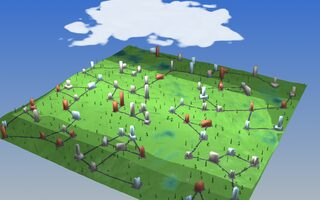
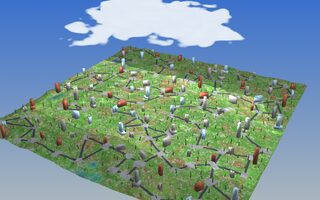
terrain_lab: bake roads/plazas into the terrain texture; more dirt + heightfield variance
Roads and building plazas were draped quads that z-fought and shimmered; they are now
BAKED INTO the terrain's texture. The terrain mesh carries UVs and a per-regeneration
RGB texture holds the final surface colour: per-cell material, dirt/dry-grass patches
breaking up the grass (value-noise, material mode only), a concrete plaza hugging each
building footprint, and an asphalt street network connecting the plazas (nearest-2,
skipping submerged spans). QA colour modes (risk/occupancy/height) show the raw raster.
Heightfield variance raised (shorter base wavelength, 8 octaves, higher gain, stronger
warp, amp 44) so the generator classifies more gravel/scree/rock (dirt) on the steeper
slopes instead of an all-grass plain. Colour-mode switch now repaints the texture.

diff --git a/src/cvcGL/examples/terrain_lab.cpp b/src/cvcGL/examples/terrain_lab.cpp
@@ -125,7 +125,7 @@ struct GenParams {
   int rocks = 90;
   int buildings = 110;
   int tree_gen = 5;
-  double amp_m = 36.0;
+  double amp_m = 44.0;
   // Water SURFACE height. The heightfield floor sits at 0, so terrain rises in
   // [0, amp]; anything below this line floods — valleys become streams/ponds and
   // the low rim becomes coast. Default ~a third of the relief, so water reads.
@@ -148,10 +148,15 @@ world::world_params toWorldParams(const GenParams &gp) {
   wp.hf.seed = gp.seed;
   wp.hf.amp_m = gp.amp_m;
   wp.hf.sea_level_m = 0.0; // terrain floor at 0; water floods above it (see water_level_m)
-  wp.hf.base_wavelength_m = std::max(60.0, gHalf * 0.38); // rolling hills with carved valleys
-  wp.hf.octaves = 7;
-  wp.hf.warp_m = 16.0;
-  wp.hf.warp_wavelength_m = gHalf * 0.7;
+  // More variance: a shorter base wavelength + more octaves + higher gain give
+  // steeper, more broken relief, so the generator classifies more gravel / scree /
+  // bare rock (dirt) on the slopes instead of an all-grass plain.
+  wp.hf.base_wavelength_m = std::max(50.0, gHalf * 0.30);
+  wp.hf.octaves = 8;
+  wp.hf.gain = 0.55;
+  wp.hf.lacunarity = 2.1;
+  wp.hf.warp_m = 22.0;
+  wp.hf.warp_wavelength_m = gHalf * 0.6;
   // The "island" preset shapes the relief (a central dome dropping below the water
   // line at the rim); every preset's object mix lives in the count sliders (see
   // presetFill), so counts here always come straight from the panel.
@@ -245,23 +250,19 @@ cvc::geometry::color_t cellColor(const world::raster_out &ro, const world::surfa
 
 // Build the terrain mesh straight from the raster: a vertex per cell, coloured by
 // the current colour mode, real heights. Row 0 == min_y (grid_spec convention).
-cvc::geometry buildTerrain(cvc::app &app, const world::raster_out &ro, const world::grid_spec &g,
-                           const world::surface_registry &reg, int mode) {
-  float hmin = 1e30f, hmax = -1e30f;
-  for (float h : ro.height) {
-    hmin = std::min(hmin, h);
-    hmax = std::max(hmax, h);
-  }
+// The terrain mesh: real heights + UVs (world -> [0,1]) so the surface colour comes
+// from a baked texture (materials + dirt + roads + plazas), not per-vertex colour.
+cvc::geometry buildTerrain(cvc::app &app, const world::raster_out &ro, const world::grid_spec &g) {
   cvc::geometry geo(app);
   auto &pts = geo.points();
-  auto &cols = geo.colors();
+  auto &uvs = geo.uvs();
   pts.reserve(ro.klass.size());
-  cols.reserve(ro.klass.size());
+  uvs.reserve(ro.klass.size());
   for (int r = 0; r < g.rows; ++r)
     for (int c = 0; c < g.cols; ++c) {
       std::size_t i = std::size_t(r) * g.cols + c;
       pts.push_back({g.world_x(c), g.world_y(r), double(ro.height[i])});
-      cols.push_back(cellColor(ro, reg, i, mode, hmin, hmax));
+      uvs.push_back({double(c) / (g.cols - 1), double(r) / (g.rows - 1)});
     }
   auto &tris = geo.tris();
   tris.reserve(std::size_t(g.rows - 1) * (g.cols - 1) * 2);
@@ -575,39 +576,22 @@ void buildBuildings(cvc::app &app, const world::world_model &wm, const world::su
   }
 }
 
-// ── pavement: a concrete plaza that WRAPS AROUND each building — a square apron
-// centred on the building, extending a margin beyond its footprint, draped over
-// the terrain so it follows the ground the building sits on ──────────────────
-cvc::geometry buildPavement(cvc::app &app, const std::vector<Apron> &aprons,
-                            const world::heightfield &hf, double waterLevel) {
-  cvc::geometry g(app);
-  const cvc::geometry::color_t pave = {0.30, 0.31, 0.33}; // dark concrete plaza
-  const cvc::geometry::color_t road = {0.24, 0.24, 0.27}; // darker asphalt street
-  const int G = 5;                                        // draped grid per plaza
-  // Plazas: a paved rectangle hugging each building's footprint, at its yaw.
-  for (const Apron &a : aprons) {
-    double c = std::cos(a.yaw), s = std::sin(a.yaw);
-    idx_t base = idx_t(g.points().size());
-    for (int iy = 0; iy <= G; ++iy)
-      for (int ix = 0; ix <= G; ++ix) {
-        double lx = -a.hx + 2.0 * a.hx * ix / G, ly = -a.hy + 2.0 * a.hy * iy / G;
-        double x = a.x + lx * c - ly * s, y = a.y + lx * s + ly * c; // rotate to yaw
-        double h = hf.sample(x, y) + 0.12;
-        g.points().push_back({x, y, h});
-        g.colors().push_back(pave);
-      }
-    for (int iy = 0; iy < G; ++iy)
-      for (int ix = 0; ix < G; ++ix) {
-        idx_t v = base + idx_t(iy) * (G + 1) + ix;
-        idx_t vr = v + 1, vd = v + (G + 1), vrd = vd + 1;
-        g.tris().push_back({v, vr, vd});
-        g.tris().push_back({vr, vrd, vd});
-      }
-  }
-  // Streets: connect each plaza to its two nearest neighbours (a simple network),
-  // draped over the terrain, skipping any span whose midpoint would dip underwater.
+// ── streets + terrain texture: roads and plazas are BAKED INTO the terrain's
+// texture (not draped quads, which z-fight and shimmer). The mesh carries UVs; the
+// texture holds the final surface colour — per-cell material (+ dirt/grass variance
+// in material mode), a paved plaza hugging each building footprint, and an asphalt
+// street network connecting the plazas. ─────────────────────────────────────────
+struct Street {
+  double x0, y0, x1, y1;
+};
+
+// Connect each building plaza to its two nearest neighbours, skipping any span
+// whose midpoint terrain would sit underwater.
+std::vector<Street> computeStreets(const std::vector<Apron> &aprons, const world::heightfield &hf,
+                                   double waterLevel) {
+  std::vector<Street> out;
   const int n = int(aprons.size());
-  const double maxLen = gHalf * 0.7, w = 8.0;
+  const double maxLen = gHalf * 0.7;
   std::set<std::pair<int, int>> edges;
   for (int i = 0; i < n; ++i) {
     int best[2] = {-1, -1};
@@ -632,34 +616,131 @@ cvc::geometry buildPavement(cvc::app &app, const std::vector<Apron> &aprons,
   }
   for (const auto &e : edges) {
     const Apron &A = aprons[e.first], &B = aprons[e.second];
-    Vec3d d{B.x - A.x, B.y - A.y, 0};
-    double L = vlen(d);
+    double dx = B.x - A.x, dy = B.y - A.y, L = std::sqrt(dx * dx + dy * dy);
     if (L < 1.0 || L > maxLen)
       continue;
     if (hf.sample(0.5 * (A.x + B.x), 0.5 * (A.y + B.y)) < waterLevel)
       continue;
-    d = d * (1.0 / L);
-    Vec3d perp{-d.y, d.x, 0};
-    int steps = std::max(2, int(L / 10.0) + 1);
-    idx_t prevL = 0, prevR = 0;
-    for (int k = 0; k <= steps; ++k) {
-      double t = double(k) / steps, x = A.x + (B.x - A.x) * t, y = A.y + (B.y - A.y) * t;
-      double h = hf.sample(x, y) + 0.14;
-      idx_t li = idx_t(g.points().size());
-      g.points().push_back({x + perp.x * 0.5 * w, y + perp.y * 0.5 * w, h});
-      g.colors().push_back(road);
-      idx_t ri = idx_t(g.points().size());
-      g.points().push_back({x - perp.x * 0.5 * w, y - perp.y * 0.5 * w, h});
-      g.colors().push_back(road);
-      if (k > 0) {
-        g.tris().push_back({prevL, prevR, ri});
-        g.tris().push_back({prevL, ri, li});
+    out.push_back({A.x, A.y, B.x, B.y});
+  }
+  return out;
+}
+
+// A cheap self-contained 2-D value-noise fBm (the cloud fBm is defined later).
+double gnoise2(double x, double y) {
+  auto hsh = [](int a, int b) {
+    unsigned u = unsigned(a * 374761393 + b * 668265263);
+    u = (u ^ (u >> 13)) * 1274126177u;
+    return ((u ^ (u >> 16)) & 0xffffffu) / double(0x1000000);
+  };
+  int xi = int(std::floor(x)), yi = int(std::floor(y));
+  double fx = x - xi, fy = y - yi;
+  fx = fx * fx * (3 - 2 * fx);
+  fy = fy * fy * (3 - 2 * fy);
+  double a = hsh(xi, yi), b = hsh(xi + 1, yi), c = hsh(xi, yi + 1), d = hsh(xi + 1, yi + 1);
+  return (a + (b - a) * fx) * (1 - fy) + (c + (d - c) * fx) * fy;
+}
+double gfbm2(double x, double y) {
+  double f = 0, amp = 0.5, tot = 0, fr = 1;
+  for (int i = 0; i < 4; ++i) {
+    f += amp * gnoise2(x * fr, y * fr);
+    tot += amp;
+    amp *= 0.5;
+    fr *= 2.03;
+  }
+  return f / tot;
+}
+
+// Bake the terrain surface into an RGB texture (TEX x TEX). Row 0 == min_y (v=0),
+// matching the mesh UVs. In material mode grass is broken up with dirt / dry-grass
+// patches and the roads + plazas are painted on top; QA colour modes stay raw.
+constexpr int TEX = 1280;
+std::vector<unsigned char> paintTerrain(int mode, const world::raster_out &ro,
+                                        const world::grid_spec &g,
+                                        const world::surface_registry &reg,
+                                        const std::vector<Apron> &aprons,
+                                        const std::vector<Street> &streets) {
+  const int T = TEX;
+  std::vector<unsigned char> img(std::size_t(T) * T * 3, 0);
+  float hmin = 1e30f, hmax = -1e30f;
+  for (float h : ro.height) {
+    hmin = std::min(hmin, h);
+    hmax = std::max(hmax, h);
+  }
+  const double spanx = g.max_x - g.min_x, spany = g.max_y - g.min_y;
+  const cvc::geometry::color_t dirt = {0.42, 0.34, 0.23}, dryGrass = {0.45, 0.47, 0.24};
+  auto put = [&](int tx, int ty, const cvc::geometry::color_t &c) {
+    std::size_t o = (std::size_t(ty) * T + tx) * 3;
+    img[o] = (unsigned char)std::min(255.0, std::max(0.0, c[0] * 255.0));
+    img[o + 1] = (unsigned char)std::min(255.0, std::max(0.0, c[1] * 255.0));
+    img[o + 2] = (unsigned char)std::min(255.0, std::max(0.0, c[2] * 255.0));
+  };
+  for (int ty = 0; ty < T; ++ty) {
+    double v = double(ty) / (T - 1), wy = g.min_y + v * spany;
+    int r = std::min(g.rows - 1, std::max(0, int(std::lround(v * (g.rows - 1)))));
+    for (int tx = 0; tx < T; ++tx) {
+      double u = double(tx) / (T - 1), wx = g.min_x + u * spanx;
+      int c = std::min(g.cols - 1, std::max(0, int(std::lround(u * (g.cols - 1)))));
+      std::size_t i = std::size_t(r) * g.cols + c;
+      cvc::geometry::color_t col = cellColor(ro, reg, i, mode, hmin, hmax);
+      if (mode == 0) {
+        std::uint16_t k = ro.klass[i];
+        if (k == 6 || k == 7 || k == 8) { // grass / tall_grass / bush_cover
+          double n1 = gfbm2(wx * 0.020, wy * 0.020), n2 = gfbm2(wx * 0.006 + 11, wy * 0.006 + 7);
+          double dfac = std::min(1.0, std::max(0.0, (n1 - 0.52) / 0.30));
+          double gfac = std::min(1.0, std::max(0.0, (n2 - 0.55) / 0.30));
+          for (int q = 0; q < 3; ++q)
+            col[q] = col[q] * (1 - dfac) + dirt[q] * dfac;
+          for (int q = 0; q < 3; ++q)
+            col[q] = col[q] * (1 - 0.5 * gfac) + dryGrass[q] * 0.5 * gfac;
+        }
       }
-      prevL = li;
-      prevR = ri;
+      put(tx, ty, col);
     }
   }
-  return g;
+  if (mode != 0)
+    return img; // QA modes: raw raster only
+  const cvc::geometry::color_t road = {0.20, 0.20, 0.23}, curb = {0.31, 0.31, 0.34};
+  const double roadW = 8.0;
+  double sx = (T - 1) / spanx, sy = (T - 1) / spany;
+  auto W2Tx = [&](double x) { return (x - g.min_x) * sx; };
+  auto W2Ty = [&](double y) { return (y - g.min_y) * sy; };
+  double rTexX = 0.5 * roadW * sx;
+  for (const Street &s : streets) {
+    double ax = W2Tx(s.x0), ay = W2Ty(s.y0), bx = W2Tx(s.x1), by = W2Ty(s.y1);
+    double dx = bx - ax, dy = by - ay, L2 = dx * dx + dy * dy;
+    int x0 = std::max(0, int(std::floor(std::min(ax, bx) - rTexX - 2)));
+    int x1 = std::min(T - 1, int(std::ceil(std::max(ax, bx) + rTexX + 2)));
+    int y0 = std::max(0, int(std::floor(std::min(ay, by) - rTexX - 2)));
+    int y1 = std::min(T - 1, int(std::ceil(std::max(ay, by) + rTexX + 2)));
+    for (int ty = y0; ty <= y1; ++ty)
+      for (int tx = x0; tx <= x1; ++tx) {
+        double t = L2 > 1e-9 ? ((tx - ax) * dx + (ty - ay) * dy) / L2 : 0.0;
+        t = std::min(1.0, std::max(0.0, t));
+        double px = ax + t * dx, py = ay + t * dy;
+        double dd = std::sqrt((tx - px) * (tx - px) + (ty - py) * (ty - py));
+        if (dd <= rTexX)
+          put(tx, ty, road);
+        else if (dd <= rTexX + 1.5)
+          put(tx, ty, curb);
+      }
+  }
+  const cvc::geometry::color_t pave = {0.44, 0.44, 0.46};
+  for (const Apron &a : aprons) {
+    double cx = W2Tx(a.x), cy = W2Ty(a.y);
+    double hxT = a.hx * sx, hyT = a.hy * sy, R = std::sqrt(hxT * hxT + hyT * hyT);
+    double c = std::cos(a.yaw), s = std::sin(a.yaw);
+    int x0 = std::max(0, int(std::floor(cx - R))), x1 = std::min(T - 1, int(std::ceil(cx + R)));
+    int y0 = std::max(0, int(std::floor(cy - R))), y1 = std::min(T - 1, int(std::ceil(cy + R)));
+    for (int ty = y0; ty <= y1; ++ty)
+      for (int tx = x0; tx <= x1; ++tx) {
+        double dx = tx - cx, dy = ty - cy;
+        double lx = dx * c + dy * s, ly = -dx * s + dy * c;
+        if (std::fabs(lx) <= hxT && std::fabs(ly) <= hyT)
+          put(tx, ty, pave);
+      }
+  }
+  return img;
 }
 
 // ── the water: a volume of depth under a gently travelling wave, filling every
@@ -1040,6 +1121,18 @@ int main(int argc, char **argv) {
     world::raster(wm, grid, ro);
   };
 
+  std::vector<Apron> gAprons; // current buildings' plazas (for the baked texture)
+  std::vector<Street> gStreets;
+  // Paint the terrain texture (material + dirt + roads + plazas) for the current
+  // colour mode and hand it to the terrain node — on rebuild and on colour switch.
+  auto applyTexture = [&]() {
+    if (!sg.hasGraphics("terrain"))
+      return;
+    std::vector<unsigned char> rgb = paintTerrain(colorMode, ro, grid, *reg, gAprons, gStreets);
+    cvc::image img(TEX, TEX, cvc::image::pixel_format::RGB, cvc::image::data_type::u8, rgb.data());
+    std::dynamic_pointer_cast<GeometryNode>(sg.getGraphics("terrain"))->setTexture(img, false);
+  };
+
   auto rebuild = [&](bool reframe) {
     world::world_params wp = toWorldParams(gp);
     reg = &world::surface_registry::variant(wp.ontology);
@@ -1059,22 +1152,24 @@ int main(int argc, char **argv) {
     gSkyTop = gSkyBase + gHalf * 0.30 + 80.0;
 
     lib.build(wp);
-    cvc::geometry terrain = buildTerrain(app, ro, grid, *reg, colorMode);
+    cvc::geometry terrain = buildTerrain(app, ro, grid);
     cvc::geometry solid(app), foliage(app);
-    std::vector<Apron> aprons;
-    buildProps(app, wm, *reg, lib, solid, foliage);        // trees + rocks
-    buildBuildings(app, wm, *reg, gp.seed, solid, aprons); // solid, non-overlapping edifices
-    // Pavement: a concrete plaza wrapping each building, plus streets connecting them.
-    cvc::geometry pavement = buildPavement(app, aprons, wm.hf(), gSeaLevel);
+    gAprons.clear();
+    buildProps(app, wm, *reg, lib, solid, foliage);         // trees + rocks
+    buildBuildings(app, wm, *reg, gp.seed, solid, gAprons); // solid, non-overlapping edifices
+    gStreets = computeStreets(gAprons, wm.hf(), gSeaLevel); // baked into the terrain texture
 
     if (sg.hasGraphics("terrain"))
       std::dynamic_pointer_cast<GeometryNode>(sg.getGraphics("terrain"))->setGeometry(terrain);
     else {
       auto t = std::dynamic_pointer_cast<GeometryNode>(sg.addGraphics("terrain", terrain));
-      t->setUseSingleColor(false);
-      t->setAmbient(0.42);
-      t->setDiffuse(0.9);
+      t->setUseSingleColor(true); // surface colour comes from the baked texture
+      t->setColor(1.0, 1.0, 1.0);
+      t->setAmbient(0.5);
+      t->setDiffuse(0.95);
     }
+    applyTexture(); // material + dirt + roads + plazas, per the colour mode
+
     if (sg.hasGraphics("props"))
       std::dynamic_pointer_cast<GeometryNode>(sg.getGraphics("props"))->setGeometry(solid);
     else {
@@ -1094,18 +1189,6 @@ int main(int argc, char **argv) {
       }
     } else if (sg.hasGraphics("foliage"))
       sg.removeGraphics("foliage");
-
-    if (pavement.points().size()) {
-      if (sg.hasGraphics("pavement"))
-        std::dynamic_pointer_cast<GeometryNode>(sg.getGraphics("pavement"))->setGeometry(pavement);
-      else {
-        auto pv = std::dynamic_pointer_cast<GeometryNode>(sg.addGraphics("pavement", pavement));
-        pv->setUseSingleColor(false);
-        pv->setAmbient(0.30);
-        pv->setDiffuse(0.7);
-      }
-    } else if (sg.hasGraphics("pavement"))
-      sg.removeGraphics("pavement");
 
     // water volume
     if (sg.hasGraphics("water"))
@@ -1130,23 +1213,8 @@ int main(int argc, char **argv) {
     (void)reframe;
   };
 
-  // Recolour the terrain in place (colour-mode switch) — no regeneration.
-  auto recolor = [&]() {
-    if (!sg.hasGraphics("terrain"))
-      return;
-    float hmin = 1e30f, hmax = -1e30f;
-    for (float h : ro.height) {
-      hmin = std::min(hmin, h);
-      hmax = std::max(hmax, h);
-    }
-    std::vector<unsigned char> rgb(ro.klass.size() * 3);
-    for (std::size_t i = 0; i < ro.klass.size(); ++i) {
-      cvc::geometry::color_t c = cellColor(ro, *reg, i, colorMode, hmin, hmax);
-      for (int k = 0; k < 3; ++k)
-        rgb[i * 3 + k] = (unsigned char)std::min(255.0, std::max(0.0, c[k] * 255.0));
-    }
-    std::dynamic_pointer_cast<GeometryNode>(sg.getGraphics("terrain"))->updateColors(rgb);
-  };
+  // Recolour the terrain (colour-mode switch) — repaint the texture, no regeneration.
+  auto recolor = [&]() { applyTexture(); };
 
   gHF = &wm.hf();
   gSeaLevel = gp.water_level_m;
